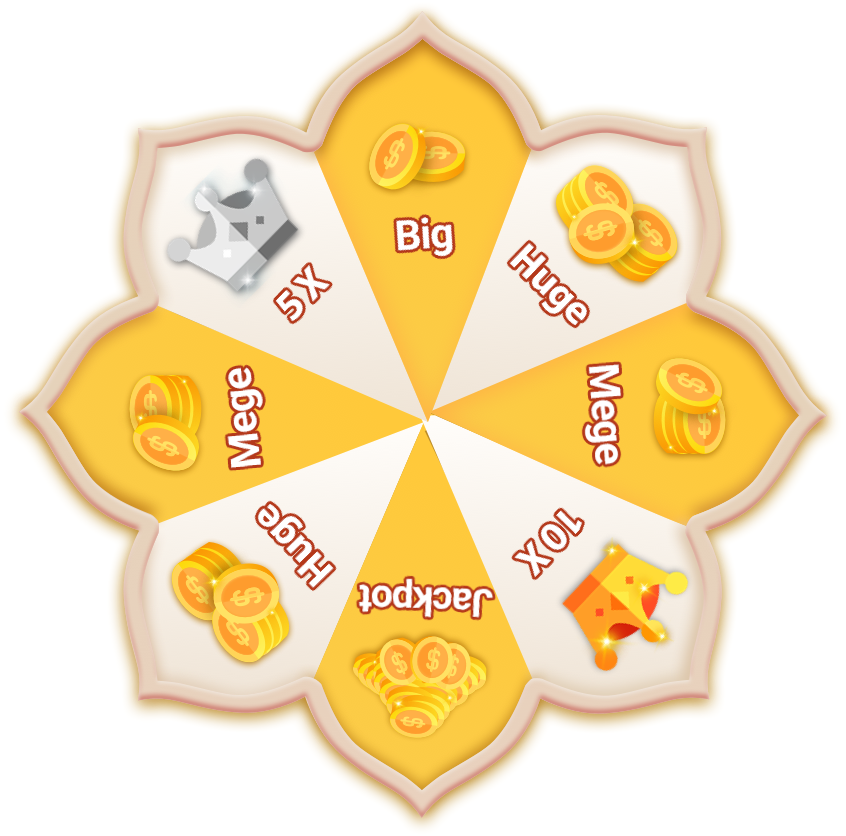
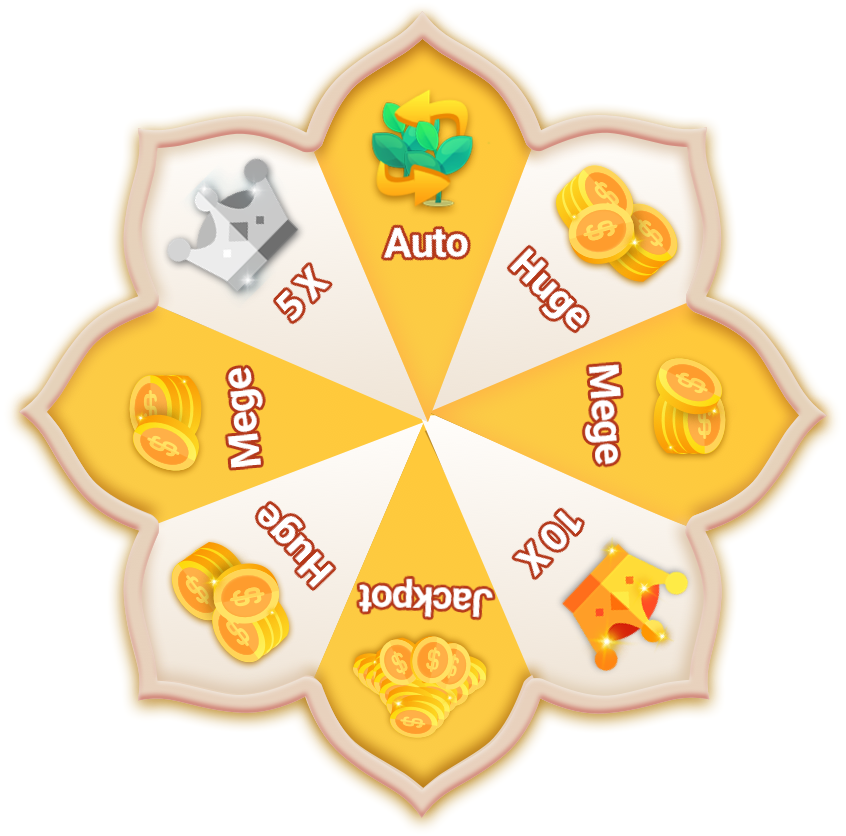
feat-完善

diff --git a/lib/pages/home.dart b/lib/pages/home.dart
@@ -154,23 +154,85 @@ class _HomeState extends State<Home> with WidgetsBindingObserver {
                       ))
                 ],
               )
-            : Image.asset(
-                iconUrl,
-                key: name == 'TRIP' ? Consts.globalKeyTripIcon : null,
-                width: ScreenUtil().setWidth(56),
-              ),
-        activeIcon: Image.asset(
-          activeIconUrl,
-          width: ScreenUtil().setWidth(56),
-        ),
+            : name == 'LOTTO'
+                ? getLottoInActiveWidget(iconUrl)
+                : Image.asset(
+                    iconUrl,
+                    key: name == 'TRIP' ? Consts.globalKeyTripIcon : null,
+                    width: ScreenUtil().setWidth(56),
+                  ),
+        activeIcon: name == 'LOTTO'
+            ? getLottoActiveWidget(activeIconUrl)
+            : Image.asset(activeIconUrl, width: ScreenUtil().setWidth(56)),
         title: Text(
-          name,
+          name == 'LOTTO' ? '' : name,
           style: TextStyle(
               fontWeight: FontWeight.w600,
               fontFamily: 'semibold',
               height: 1.2,
               fontSize: ScreenUtil().setSp(34)),
         ));
+  }
+
+  Widget getLottoInActiveWidget(String url) {
+    return Stack(
+      overflow: Overflow.visible,
+      children: <Widget>[
+        Transform.scale(
+          scale: 2.0,
+          child: Column(
+            mainAxisSize: MainAxisSize.min,
+            children: <Widget>[
+              Transform.scale(
+                scale: 1.0,
+                child: Image.asset(
+                  url,
+                  width: ScreenUtil().setWidth(56),
+                ),
+              ),
+              Text(
+                "LOTTO",
+                style: TextStyle(
+                    fontWeight: FontWeight.w600,
+                    fontFamily: 'semibold',
+                    color: Color(0xFFCACACA),
+                    fontSize: ScreenUtil().setSp(17)),
+              )
+            ],
+          ),
+        ),
+      ],
+    );
+  }
+
+  Widget getLottoActiveWidget(String url) {
+    return Stack(
+      overflow: Overflow.visible,
+      children: <Widget>[
+        Transform.scale(
+          scale: 2.0,
+          child: Column(
+            mainAxisSize: MainAxisSize.min,
+            children: <Widget>[
+              Transform.scale(
+                scale: 1.0,
+                child: Image.asset(
+                  url,
+                  width: ScreenUtil().setWidth(56),
+                ),
+              ),
+              Text(
+                "LOTTO",
+                style: TextStyle(
+                    fontWeight: FontWeight.w600,
+                    fontFamily: 'semibold',
+                    fontSize: ScreenUtil().setSp(17)),
+              )
+            ],
+          ),
+        ),
+      ],
+    );
   }
 
   Widget _createBottomBar(Map<String, bool> remind) {

diff --git a/lib/widgets/layer.dart b/lib/widgets/layer.dart
@@ -1694,6 +1694,51 @@ class Layer {
             ])
       ..show();
   }
+
+  static void showAutoMergeInLuckyWheel() {
+    Modal(
+        okText: 'Claim',
+        onOk: () {},
+        onCancel: () {},
+        closeIconDelayedTime: 0,
+        btnColors: [
+          Color.fromRGBO(242, 212, 80, 1),
+          Color.fromRGBO(245, 154, 34, 1),
+        ],
+        childrenBuilder: (modal) => <Widget>[
+              Container(
+                height: ScreenUtil().setWidth(70),
+                child: Text(
+                  "Awesome",
+                  textAlign: TextAlign.center,
+                  style: TextStyle(
+                      color: MyTheme.blackColor,
+                      height: 1,
+                      fontFamily: FontFamily.bold,
+                      fontSize: ScreenUtil().setSp(70),
+                      fontWeight: FontWeight.bold),
+                ),
+              ),
+              Container(height: ScreenUtil().setWidth(60)),
+              Image.asset(
+                "assets/image/lucky_wheel_auto_merge_icon.png",
+                width: ScreenUtil().setWidth(240),
+                height: ScreenUtil().setWidth(240),
+              ),
+              Container(height: ScreenUtil().setWidth(60)),
+              Text(
+                "Auto Merge",
+                textAlign: TextAlign.center,
+                style: TextStyle(
+                    color: MyTheme.blackColor,
+                    height: 1,
+                    fontFamily: FontFamily.regular,
+                    fontSize: ScreenUtil().setSp(42),
+                    fontWeight: FontWeight.w400),
+              ),
+              Container(height: ScreenUtil().setWidth(46)),
+            ]).show();
+  }
 }
 
 class GetReward {

diff --git a/lib/pages/trip/trip_btns/right_btns.dart b/lib/pages/trip/trip_btns/right_btns.dart
@@ -180,7 +180,8 @@ class _RightBtnsState extends State<RightBtns>
                           ad_code: '202',
                           adUnitIdFlag: 2,
                           key: Consts.globalKeyAutoMerge,
-                          useAd: !luckyGroup.showAutoMergeCircleGuidance,
+                          useAd: !luckyGroup.showAutoMergeCircleGuidance &&
+                              luckyGroup.autoMergeDurationFromLuckyWheel <= 0,
                           onOk: () {
                             //success
                             luckyGroup.setShowAutoMergeCircleGuidance = false;
@@ -197,8 +198,10 @@ class _RightBtnsState extends State<RightBtns>
                               bottomString:
                                   'in ${luckyGroup.autoMergeDurationFromLuckyWheel > 0 ? luckyGroup.autoMergeDurationFromLuckyWheel : issed?.automatic_time}s',
                               topString: 'Auto',
-                              userNoAdImg:
-                                  luckyGroup.showAutoMergeCircleGuidance,
+                              userNoAdImg: luckyGroup
+                                      .showAutoMergeCircleGuidance ||
+                                  luckyGroup.autoMergeDurationFromLuckyWheel >
+                                      0,
                               color: Color.fromRGBO(49, 200, 84, 1)),
                         ))
                     : Container(),

diff --git a/lib/utils/mo_ad.dart b/lib/utils/mo_ad.dart
@@ -11,9 +11,9 @@ import 'package:provider/provider.dart';
 import './event_bus.dart';
 import 'method_channel.dart';
 
-class MoAd {
+class MopubAd {
   // static const String VIEW_AD = 'VIEW_AD';
-  static MoAd _instance;
+  static MopubAd _instance;
   UserModel _userModel;
   String ad_code;
   LuckyGroup _luckyGroup;
@@ -28,7 +28,7 @@ class MoAd {
   // 是否自动弹出广告
   bool autoPopupAds = false;
 
-  MoAd(BuildContext context) {
+  MopubAd(BuildContext context) {
     _userModel = Provider.of<UserModel>(context, listen: false);
     _luckyGroup = Provider.of<LuckyGroup>(context, listen: false);
 
@@ -51,9 +51,9 @@ class MoAd {
     loadingTimeInSeconds = _luckyGroup?.issed?.ad_reset_time ?? 3;
   }
 
-  static MoAd getInstance(BuildContext context) {
+  static MopubAd getInstance(BuildContext context) {
     if (_instance == null) {
-      _instance = MoAd(context);
+      _instance = MopubAd(context);
     }
     return _instance;
   }
@@ -69,6 +69,8 @@ class MoAd {
   }
 
   void onRewardedVideoLoadFailure(arg) {
+    // 下面这一行是去掉重试三次的逻辑
+    retryCount = 3;
     retryCount++;
     Layer.loadingHide();
     print("onRewardedVideoLoadFailure: $arg, retryCount:$retryCount");

diff --git a/lib/pages/trip/other/balloon.dart b/lib/pages/trip/other/balloon.dart
@@ -110,6 +110,13 @@ class _BalloonState extends State<Balloon> {
                           (2 + math.sin(animation.value * math.pi * 4))),
                       child: GestureDetector(
                           onTap: () {
+                            BurialReport.report('ad_rewarded', {
+                              'type': '5',
+                              'ad_code': adCode,
+                              "union_id": adLogParam['union_id'],
+                              'is_new': "1"
+                            });
+
                             _showModal(issed.balloon_time);
                             setState(() {
                               visibity = false;

diff --git a/lib/pages/trip/other/treasure.dart b/lib/pages/trip/other/treasure.dart
@@ -106,6 +106,12 @@ class _TreasureState extends State<Treasure> {
                     angle: pi / 30,
                     child: GestureDetector(
                         onTap: () {
+                          BurialReport.report('ad_rewarded', {
+                            'type': '5',
+                            'ad_code': adCode,
+                            "union_id": adLogParam['union_id'],
+                            'is_new': "1"
+                          });
                           _showModal(tree);
                         },
                         child: Center(

diff --git a/lib/pages/trip/game/lucky_wheel.dart b/lib/pages/trip/game/lucky_wheel.dart
@@ -562,6 +562,7 @@ class LuckyWheelWidgetState extends State<LuckyWheelWidget>
         // 转到auto merge，每次一分钟
         LuckyGroup luckyGroup = Provider.of<LuckyGroup>(context, listen: false);
         luckyGroup.autoMergeDurationFromLuckyWheel += 60;
+        Layer.showAutoMergeInLuckyWheel();
         return;
       default:
         Layer.toastWarning("Failed, Please Try Agagin Later");

diff --git a/lib/widgets/ad_btn.dart b/lib/widgets/ad_btn.dart
@@ -134,7 +134,7 @@ class _AdButtonState extends State<AdButton> {
               });
               // widget?.onOk();
 
-              MoAd.getInstance(context).showRewardVideo(widget.adUnitIdFlag,
+              MopubAd.getInstance(context).showRewardVideo(widget.adUnitIdFlag,
                   () {
                 //success
                 widget?.onOk();

diff --git a/lib/main.dart b/lib/main.dart
@@ -105,7 +105,7 @@ class MyApp extends StatelessWidget {
   @override
   Widget build(BuildContext context) {
     print("initMain4_1");
-    MoAd.getInstance(context);
+    MopubAd.getInstance(context);
     var overlay = Overlay(initialEntries: [
       OverlayEntry(
         builder: (BuildContext context) {
